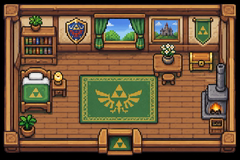
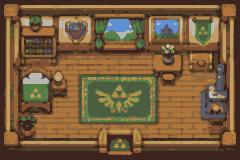
feat: física das casas alinhada com os móveis das imagens
As imagens continuam como fundo, mas o mapa de tiles agora reproduz a
"física" do que aparece nelas: móveis bloqueiam, tapetes e piso de madeira
são andáveis, portas/escadas/baú/espada permanecem interativos.

- public/rooms/*.png: referências reprocessadas do JPEG original para
  pixel art nítida de 16 cores (downsample por área, mediana 3x3 e
  median-cut), mantendo luminosidade e disposição fiéis à imagem.
- src/game/roomPhysics.ts: grades 15x10 derivadas dos pixels de cada imagem.
  '#' = móvel sólido (K), '.' = piso (F), 'r' = tapete andável, 's' = manter
  tile do jogo. Cobertura: 151, 451, 135/335/136 e casas genéricas.
- world.ts: applyRoomPhysics() na criação e também ao carregar saves
  antigos; tolera mapas salvos mais curtos.
- render.ts: sala 301 (caverna com ID de casa) não recebe imagem de casa.

Harness physics.ts: 52 checagens (grades, móveis sólidos, tapetes,
interativos preservados, spawns andáveis, BFS entrada->porta/escada/baú/espada
e persistência em save). roomimg.ts ajustado para as PNGs comprimidas.
Suíte completa e build verdes.

diff --git a/src/game/roomPhysics.ts b/src/game/roomPhysics.ts
@@ -1,0 +1,111 @@
+import { WorldData } from './types';
+
+/**
+ * Collision overlays derived from the pixel-art room references in
+ * `public/rooms/`. The images are the visual backdrop; these grids are the
+ * matching "physics": furniture from the art blocks the hero, while rugs and
+ * the wooden floor stay walkable.
+ *
+ * Legend:
+ *   #  furniture / prop — solid (tile K)
+ *   .  open wooden floor — walkable (tile F)
+ *   r  rug / carpet — walkable (tile r)
+ *   s  keep the tile the game already placed (door, stairs, chest, window…)
+ *
+ * Coordinates are row y (0..9), column x (0..14) — exactly `map[y][x]`.
+ */
+type PhysicsGrid = readonly string[];
+
+const HOUSE_151: PhysicsGrid = [
+  'sssssssssssssss',
+  's#####.s######s',
+  's#####.s#####ss',
+  's####.#....##.s',
+  's.rrrrr.......s',
+  's#rrrrr..##...s',
+  's#rrrrr...#...s',
+  's#rrrrr......ss',
+  's......s....##s',
+  'sssssssssssssss',
+];
+
+const BEDROOM_451: PhysicsGrid = [
+  'sssssssssssssss',
+  'sss###sss####ss', // cama (x1-x2) preservada
+  'ss#s#.#ss.#s#ss',
+  's.........#...s',
+  's............#s',
+  's##..rrrrrr..#s',
+  's##..rrrsrr.##s',
+  'sss..rrrrrrs.ss', // fogão/lareira (x1-x2) preservado
+  's#.....#......s',
+  'sssssssssssssss',
+];
+
+const GENERIC_HOUSE: PhysicsGrid = [
+  'sssssssssssssss',
+  's######s######s',
+  's######s######s',
+  's.##........##s',
+  's...##......##s',
+  's.#....s....##s',
+  's.......####.#s',
+  's.......####.ss',
+  's.###..s......s',
+  'sssssssssssssss',
+];
+
+const SHOP: PhysicsGrid = [
+  'sssssssssssssss',
+  's####..s######s',
+  's####..s.#.###s',
+  's####...##....s',
+  's.##s....#s.#.s',
+  's.#...#rrrr###s',
+  's.....#rrrr...s',
+  's#.....rrrr.#ss',
+  's......s......s',
+  'sssssssssssssss',
+];
+
+export const ROOM_PHYSICS: Record<string, PhysicsGrid> = {
+  house151: HOUSE_151,
+  bedroom451: BEDROOM_451,
+  generic: GENERIC_HOUSE,
+  shop: SHOP,
+};
+
+/** Interactive tiles must survive the overlay; props sit on `s` cells already. */
+const KEEP_TILES = 'DECcS';
+
+function gridFor(mapId: number): PhysicsGrid | null {
+  if (mapId === 451) return BEDROOM_451;
+  if (mapId === 151) return HOUSE_151;
+  if (mapId === 135 || mapId === 335 || mapId === 136) return SHOP;
+  // 301 looks like a house ID but is a dungeon room (h=false in createRoom).
+  const isHouseInterior = (mapId >= 100 && mapId < 200) || (mapId >= 300 && mapId < 500);
+  if (isHouseInterior && mapId !== 301) return GENERIC_HOUSE;
+  return null;
+}
+
+/** Apply the image-matched collision grid to every room backed by an image. */
+export function applyRoomPhysics(world: WorldData): void {
+  for (let id = 100; id < 500; id++) {
+    const m = world.maps[id];
+    const grid = gridFor(id);
+    if (!m || !grid) continue;
+    for (let y = 0; y < 10; y++) {
+      const row = grid[y];
+      if (!row) continue;
+      const mapRow = m[y];
+      if (!mapRow) continue;
+      for (let x = 0; x < 15; x++) {
+        const cell = row[x];
+        if (!cell || cell === 's') continue;
+        const current = mapRow[x];
+        if (current && KEEP_TILES.includes(current)) continue;
+        mapRow[x] = cell === '#' ? 'K' : cell === 'r' ? 'r' : 'F';
+      }
+    }
+  }
+}

diff --git a/src/game/world.ts b/src/game/world.ts
@@ -12,6 +12,7 @@ import {
   VILLAGES,
 } from './constants';
 import { DominicKind, EnemyKind, HeroState, Npc, NpcKind, ProgressState, WorldData } from './types';
+import { applyRoomPhysics } from './roomPhysics';
 
 export const hs = (a: number, b: number): number => ((a * 73856093) ^ (b * 19349663)) >>> 0;
 export const rnd = (n: number): number => Math.floor(Math.random() * n);
@@ -766,6 +767,9 @@ export function buildWorld(): WorldData {
   createRoom(world, 260, false, rg(260), { fwd: 261, en: [4, 6] });
   createRoom(world, 261, false, rg(261), { back: 260, en: [1, 4] });
 
+  // Make the tile-map physics match the furniture in the room images.
+  applyRoomPhysics(world);
+
   return world;
 }
 
@@ -865,6 +869,8 @@ export function loadSavedGame(): {
     if (world.maps[151]?.[2]) {
       world.maps[151][2][13] = 'E';
     }
+    // Older saves had the pre-image tile layouts — realign their physics too.
+    applyRoomPhysics(world);
     if (world.maps[4] && world.maps[4][2] && world.maps[4][2][7] === 'D') {
       world.doors[4].push({ x: 7, y: 2, to: 260, px: 112, py: 112 });
     }

diff --git a/src/game/render.ts b/src/game/render.ts
@@ -66,6 +66,8 @@ function getRoomImage(src: string): HTMLImageElement | null {
 
 /** Generic houses (not the hero's, not shops) share the cosy-living-room art. */
 function roomImageFor(map: number): string | null {
+  // 301 is a dungeon room even though its ID falls in the "house" range.
+  if (map === 301) return null;
   return ROOM_IMAGES[map] ?? (map >= 100 && map < 500 && map !== 451 ? '/rooms/house_generic.png' : null);
 }
 
